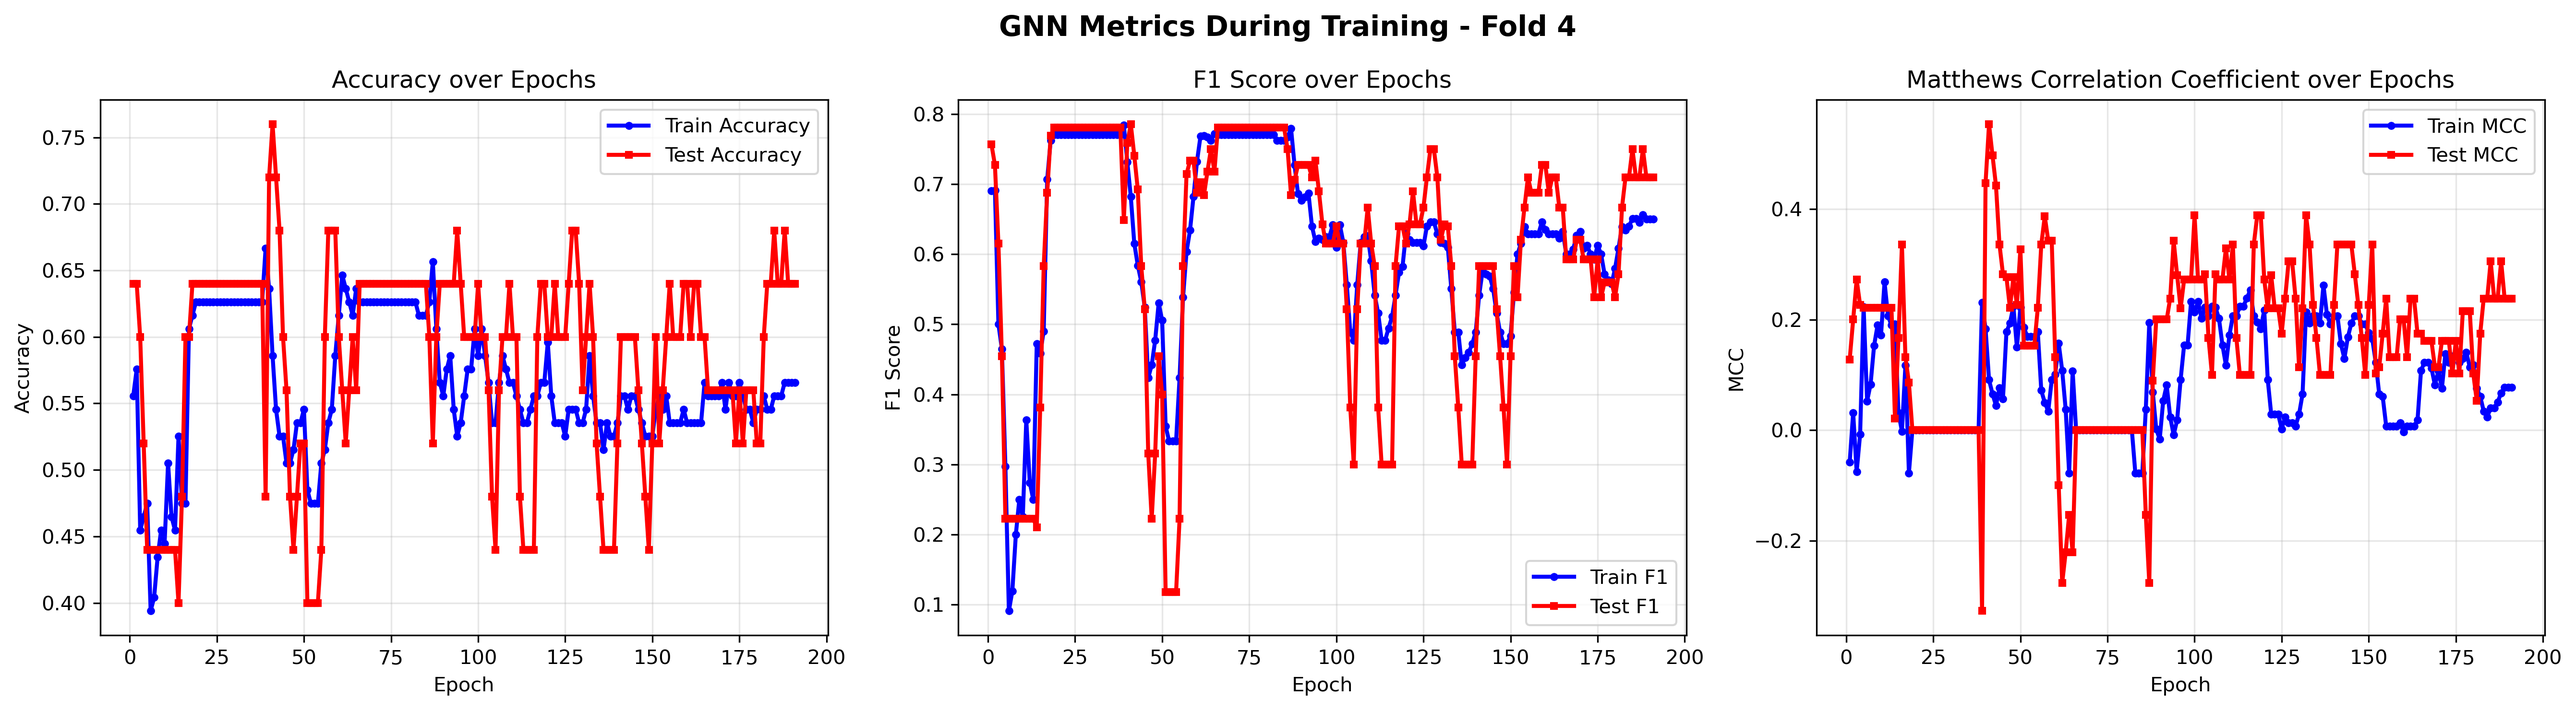
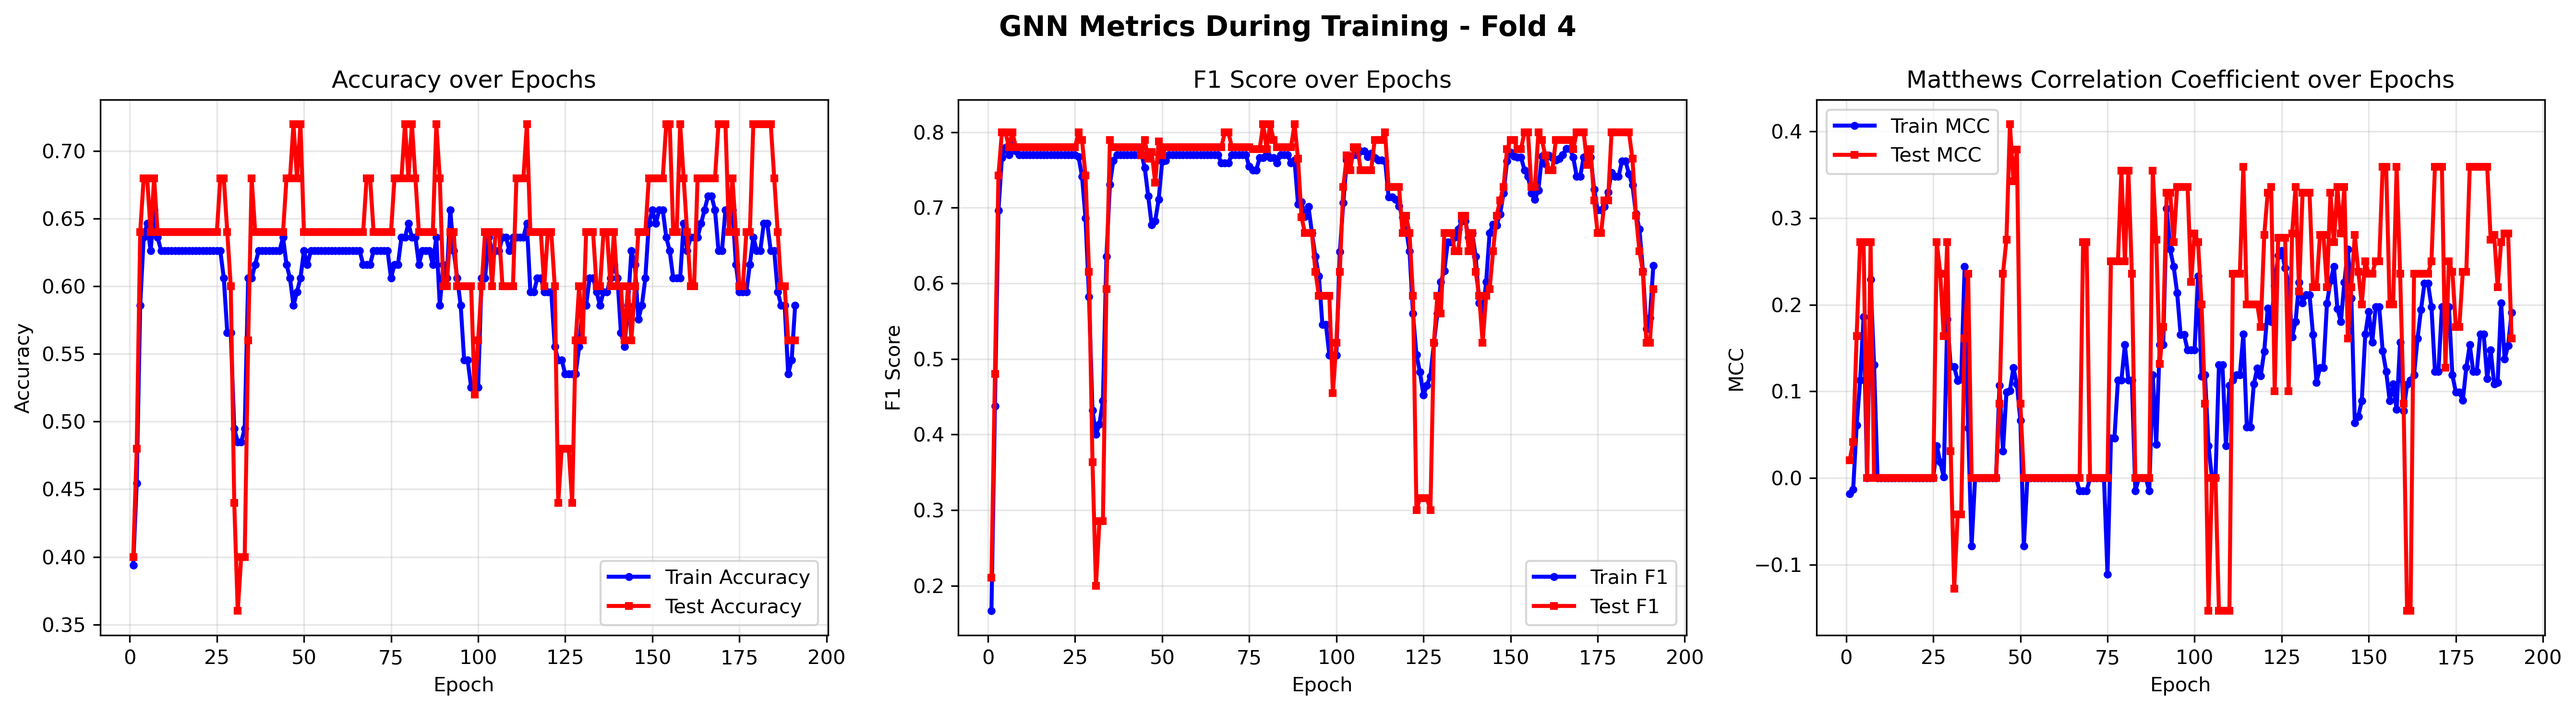
experiment with GAT architecture

diff --git a/08-gat.py b/08-gat.py
@@ -38,7 +38,10 @@ import torch.nn.functional as F
 from torch_geometric.nn import GCNConv
 from torch_geometric.nn import global_mean_pool
 import copy
+from torch_geometric.nn import GATv2Conv
 
+NODE_DIM = 49  # 4 one-hot + angle + torsion features
+EDGE_DIM = 2   # distance value + is_consecutive flag
 #chyba niepotrzebny:
 #import seaborn as sns
 
@@ -309,6 +312,77 @@ def get_graph_hot_encoding_continuity(row, cols):
         graph = Data(edge_index=edge_index_symmetric, edge_attr=edge_attr_symmetric, y=y, x=x)
         return graph
 
+def get_graph_hot_encoding_v3(row, cols):
+    NUM_NODES = 6  # we only care about nucleotides 1-6
+    d = {'A': 0, 'U': 1, 'C': 2, 'G': 3}
+    num_classes = len(d)
+
+    seq = row['seq'][:NUM_NODES]  # slice to first 6 nucleotides, ignore the rest
+
+    # one-hot base node features: shape [6, 4]
+    node_features = torch.nn.functional.one_hot(
+        torch.tensor([d[n] for n in seq], dtype=torch.long),
+        num_classes=num_classes
+    ).to(torch.float32)
+
+    edge_dict    = {}
+    node_angle   = {i: [] for i in range(NUM_NODES)}
+    node_torsion = {i: [] for i in range(NUM_NODES)}
+
+    feature_cols = [c for c in cols if c not in ('seq', 'is_positive')]
+
+    for col in feature_cols:
+        idxs = get_all_indexes_from_string(col)
+        val  = float(row[col]) if not pd.isna(row[col]) else 0.0
+
+        # skip anything that involves node 7 (1-based), i.e. index >= 6 (0-based)
+        if any(i > NUM_NODES for i in idxs):
+            continue
+
+        if len(idxs) == 2:
+            i, j = idxs[0] - 1, idxs[1] - 1
+            edge_dict.setdefault((i, j), []).append(val)
+
+        elif len(idxs) == 3:
+            middle = idxs[1] - 1
+            node_angle[middle].append(val)
+
+        elif len(idxs) == 4:
+            mid1, mid2 = idxs[1] - 1, idxs[2] - 1
+            node_torsion[mid1].append(val)
+            node_torsion[mid2].append(val)
+
+    # --- build node feature matrix ---
+    max_angle   = max((len(v) for v in node_angle.values()),   default=0)
+    max_torsion = max((len(v) for v in node_torsion.values()), default=0)
+
+    extra_node_feats = []
+    for i in range(NUM_NODES):
+        a_feats = node_angle[i]   + [0.0] * (max_angle   - len(node_angle[i]))
+        t_feats = node_torsion[i] + [0.0] * (max_torsion - len(node_torsion[i]))
+        extra_node_feats.append(a_feats + t_feats)
+
+    extra = torch.tensor(extra_node_feats, dtype=torch.float32)
+    x = torch.cat([node_features, extra], dim=1)
+
+    # --- build edges ---
+    edge_index_list = []
+    edge_attr_list  = []
+
+    for (i, j), weights in edge_dict.items():
+        is_consecutive = 1.0 if abs(i - j) == 1 else 0.0
+        edge_attr_list.append(weights + [is_consecutive])
+        edge_index_list.append([i, j])
+
+    edge_attr  = torch.tensor(edge_attr_list,  dtype=torch.float32)
+    edge_index = torch.tensor(edge_index_list, dtype=torch.int64).t().contiguous()
+
+    edge_index = torch.cat([edge_index, edge_index.flip(0)], dim=1)
+    edge_attr  = torch.cat([edge_attr,  edge_attr],          dim=0)
+
+    y = torch.tensor([int(row['is_positive'])], dtype=torch.int64)
+    return Data(edge_index=edge_index, edge_attr=edge_attr, x=x, y=y)
+
 def display_graph_and_weights(graph):
     print("Edge Index:")
     print(graph.edge_index)
@@ -318,85 +392,50 @@ def display_graph_and_weights(graph):
 class GCN(torch.nn.Module):
     def __init__(self, hidden_channels):
         super(GCN, self).__init__()
-        #torch.manual_seed(12345)
-        # self.conv1 = GCNConv(1, hidden_channels)
-        # self.conv2 = GCNConv(hidden_channels, hidden_channels)
-        # self.conv3 = GCNConv(hidden_channels, 2) #hidden channels
-        
-        # self.conv1 = GCNConv(4, 64)
-        # self.conv2 = GCNConv(64, 128)
-        # self.conv3 = GCNConv(128, 2) #hidden channels
-        self.conv1 = GCNConv(4, 16)
-        self.conv2 = GCNConv(16, 32)
-        self.conv3 = GCNConv(32, 2)
-        #self.soft = Softmax()
+        self.conv1 = GATv2Conv(NODE_DIM, 32, edge_dim=EDGE_DIM, heads=1)
+        self.conv2 = GATv2Conv(32, 64, edge_dim=EDGE_DIM, heads=1)
+        self.conv3 = GATv2Conv(64, 32, edge_dim=EDGE_DIM, heads=1)
+        self.lin   = torch.nn.Linear(32, 2)
 
-    def forward(self, x, edge_index, edge_weight, batch):
-        x = self.conv1(x, edge_index, edge_weight)
-        x = x.relu()
-        x = self.conv2(x, edge_index, edge_weight)
-        x = x.relu()
-        x = self.conv3(x, edge_index, edge_weight)
+    def forward(self, x, edge_index, edge_attr, batch):
+        x = self.conv1(x, edge_index, edge_attr=edge_attr).relu()
+        x = self.conv2(x, edge_index, edge_attr=edge_attr).relu()
+        x = self.conv3(x, edge_index, edge_attr=edge_attr).relu()
+        x = global_mean_pool(x, batch)
+        x = F.dropout(x, p=0.3, training=self.training)
+        return self.lin(x)
 
-        # 2. Readout layer
 
-        x = global_mean_pool(x, batch)  # [batch_size, hidden_channels]
 
-        # 3. Apply a final classifier
-        x = F.dropout(x, p=0.2, training=self.training)
-        #x = self.soft(x)
-        
-        return x
 def train():
     model.train()
-    for data in train_loader:  # Iterate in batches over the training dataset.  Make France great again
-         optimizer.zero_grad()  # Clear gradients.
-         #edge_weight = data.edge_attr[:, 0]  # Only use weights, ignore is_consecutive_flag
-         edge_weight = data.edge_attr[:, 0]
-         edge_weight = torch.abs(edge_weight)
-         
-         out = model(data.x, data.edge_index, edge_weight, data.batch)  # Perform a single forward pass.
-         #out= model(data.x, data.edge_index, data.edge_weight, data.batch)
-        #  print(out)
-        #  print("??????????????????????????????")
-        #  print(data.x)
-        #  print(data.edge_index)
-        #  print(data.edge_weight)
-        #  print(data.y)
-        #  print("??????????????????????????????")
-         loss = criterion(out, data.y)  # Compute the loss.
-        # print(loss)
-         loss.backward()  # Derive gradients.
-         optimizer.step()  # Update parameters based on gradients.
+    for data in train_loader:
+        optimizer.zero_grad()
+        out = model(data.x, data.edge_index, data.edge_attr, data.batch)  # full edge_attr
+        loss = criterion(out, data.y)
+        loss.backward()
+        optimizer.step()
          
 
 def test(loader, return_predictions=False):
-     model.eval()
+    model.eval()
+    correct = 0
+    all_preds, all_labels = [], []
 
-     correct = 0
-     all_preds = []
-     all_labels = []
-     
-     with torch.no_grad():
-         for data in loader:  # Iterate in batches over the training/test dataset.
-             #edge_weight = data.edge_attr[:, 0]  # Only use weights
-             edge_weight = data.edge_attr[:, 0]
-             edge_weight = torch.abs(edge_weight)
-             
-             out = model(data.x, data.edge_index, edge_weight, data.batch)  #data.edge_weight
-             pred = out.argmax(dim=1)  # Use the class with highest probability.
-             correct += int((pred == data.y).sum())  # Check against ground-truth labels.
-             
-             if return_predictions:
-                 all_preds.extend(pred.cpu().numpy().tolist())
-                 all_labels.extend(data.y.cpu().numpy().tolist())
-     
-     accuracy = correct / len(loader.dataset)
-     
-     if return_predictions:
-         return accuracy, np.array(all_preds), np.array(all_labels)
-     
-     return accuracy
+    with torch.no_grad():
+        for data in loader:
+            out  = model(data.x, data.edge_index, data.edge_attr, data.batch)  # full edge_attr
+            pred = out.argmax(dim=1)
+            correct += int((pred == data.y).sum())
+
+            if return_predictions:
+                all_preds.extend(pred.cpu().numpy().tolist())
+                all_labels.extend(data.y.cpu().numpy().tolist())
+
+    accuracy = correct / len(loader.dataset)
+    if return_predictions:
+        return accuracy, np.array(all_preds), np.array(all_labels)
+    return accuracy
 
 def plot_model_metrics_during_training(epoch_data, model_name, fold_number=None, save_path=None):
     """
@@ -796,7 +835,7 @@ print(f"Total graphs in post (fixed validation): {len(df_graph_post)}")
 
 # prepare post dataset once (shared across all folds)
 cols_post = df_graph_post.columns[:-1]
-test_dataset = df_graph_post.apply(lambda x: get_graph_hot_encoding_continuity(x, cols_post), axis=1)
+test_dataset = df_graph_post.apply(lambda x: get_graph_hot_encoding_v3(x, cols_post), axis=1)
 test_loader = DataLoader(test_dataset, batch_size=32)
 
 gnn_fold_results = []
@@ -892,8 +931,8 @@ for fold, (train_idx, val_idx) in enumerate(fold_splits):
     criterion = torch.nn.CrossEntropyLoss(weight=class_weights)
 
     cols = df_train.columns[:-1]  # all feature columns
-    train_dataset = df_train.apply(lambda x: get_graph_hot_encoding_continuity(x, cols), axis=1)
-    test_dataset = df_test.apply(lambda x: get_graph_hot_encoding_continuity(x, cols), axis=1)
+    train_dataset = df_train.apply(lambda x: get_graph_hot_encoding_v3(x, cols), axis=1)
+    test_dataset = df_test.apply(lambda x: get_graph_hot_encoding_v3(x, cols), axis=1)
 
     print(f'Number of training graphs: {len(train_dataset)}')
     print(f'Number of test graphs: {len(test_dataset)}')
